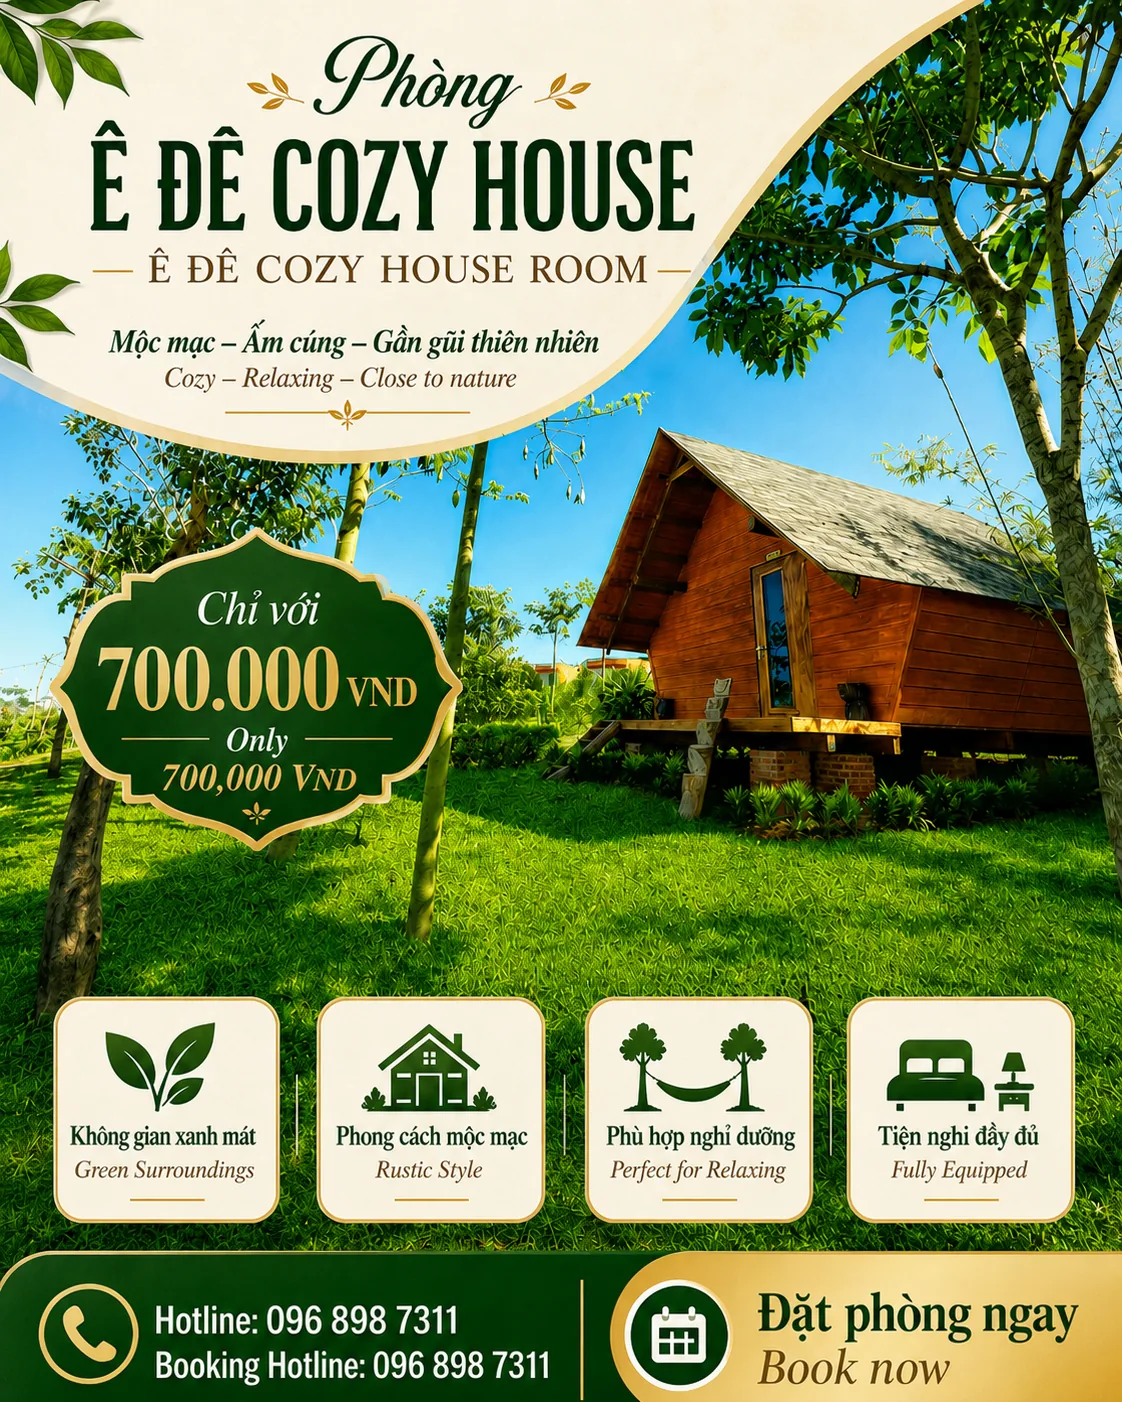
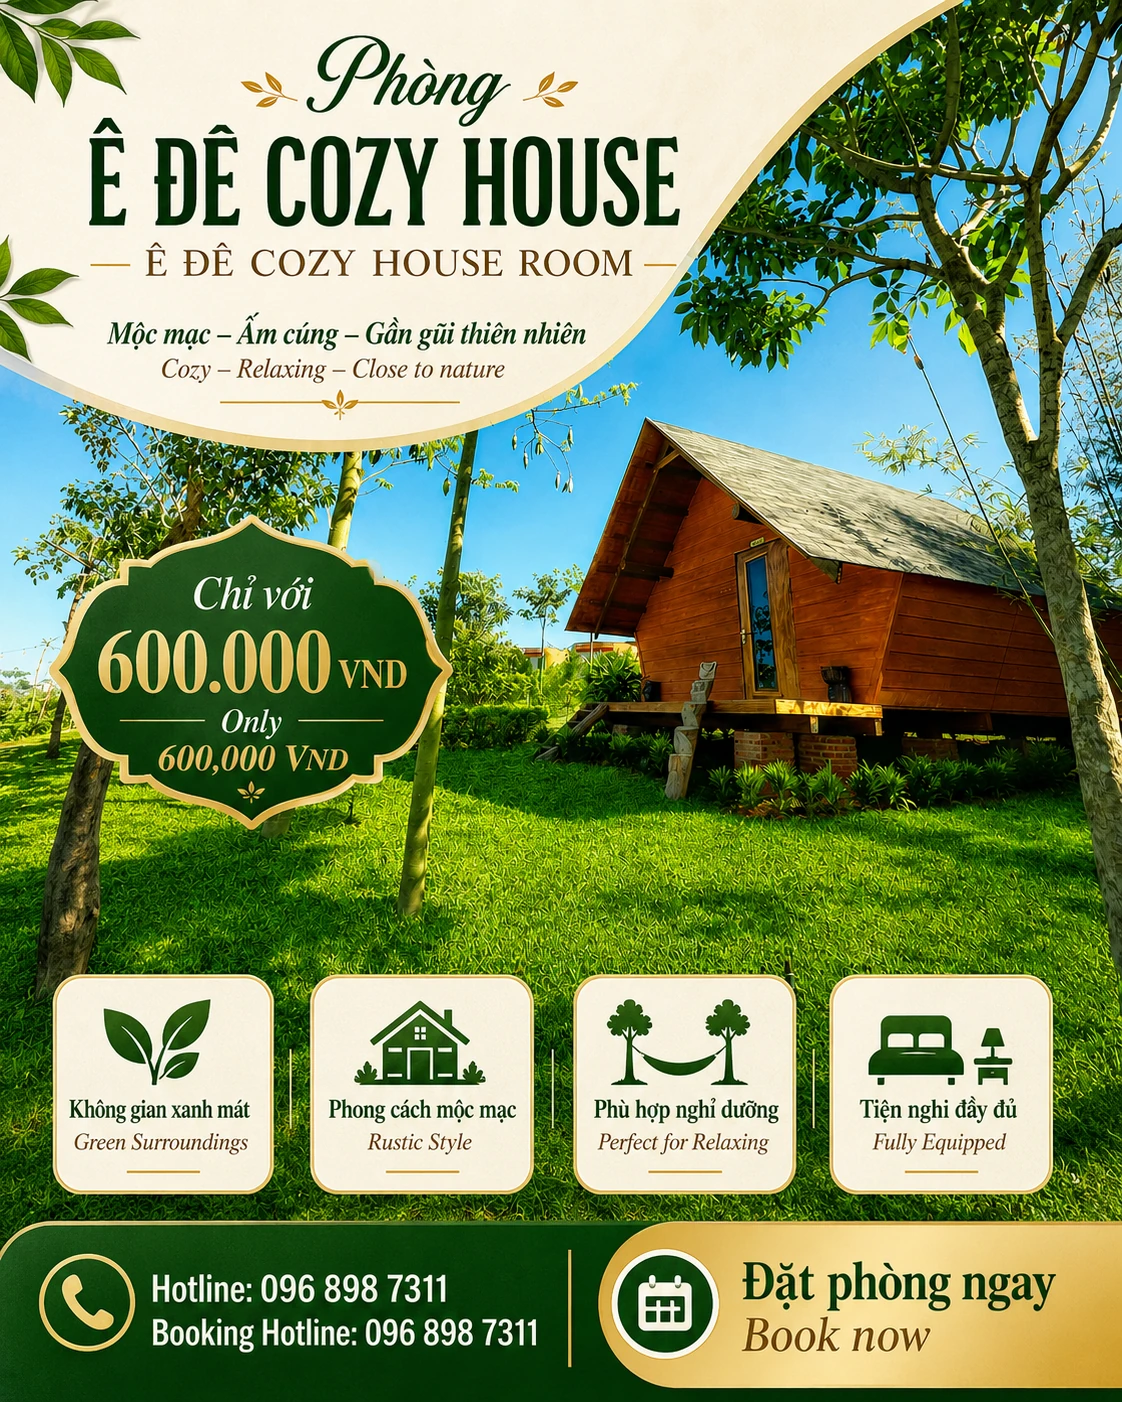
fix: update Ê Đê Cozy room price to 600k/đêm and refresh room image
- lib/roomTypes.js: ede_cozy priceVnd 700000 -> 600000 (source of truth)
- index.html, bang-gia/index.html: reflect new price across booking
  select, room card price tag, and FAQ chatbot answer
- test/roomTypes.test.js: update expected price to match
- images/room-ede-cozy.webp: replace with the image the user provided
- images/room-ede-cozy.jpg: restore (was deleted in the working tree
  unrelated to this change; its removal 404'd the homepage's <img>
  fallback, caught by tests/seo/links.spec.js)

diff --git a/index.html b/index.html
@@ -2681,7 +2681,7 @@
           <option value="">-- Chọn loại phòng --</option>
           <option value="triangle">Triangle House — 300.000đ/đêm</option>
           <option value="circle">Circle House — 600.000đ/đêm</option>
-          <option value="ede_cozy">Ê Đê Cozy House — 700.000đ/đêm</option>
+          <option value="ede_cozy">Ê Đê Cozy House — 600.000đ/đêm</option>
           <option value="vip">VIP House — 900.000đ/đêm</option>
           <option value="bungalow">Bungalow Gia Đình — 700.000đ/đêm</option>
           <option value="dormitory">Phòng Tập Thể — 1.200.000đ/đêm</option>
@@ -2813,7 +2813,7 @@
               <img src="./images/room-ede-cozy.jpg" alt="Ê Đê Cozy House">
             </picture>
             <span class="room-badge">Ê Đê Cozy</span>
-            <span class="room-price-tag">700k/đêm</span>
+            <span class="room-price-tag">600k/đêm</span>
           </div>
           <div class="room-body">
             <div class="room-name-vi">Ê Đê Cozy House</div>
@@ -4166,7 +4166,7 @@
       const KB = [
         {
           keys: ['giá', 'bao nhiêu', 'phí', 'tiền', 'cost', 'price', 'rate'],
-          answer: '🏡 Giá phòng tại Hiền Lê Garden:\n• Triangle House: **300.000đ/đêm**\n• Circle House: **600.000đ/đêm**\n• Ê Đê Cozy: **700.000đ/đêm**\n• VIP House: **900.000đ/đêm**\n• Bungalow GĐ: **700.000đ/đêm**\n• Phòng tập thể: **1.200.000đ/đêm**\n\nGiá có thể thay đổi vào mùa lễ tết. Nhắn Zalo để được báo giá chính xác nhất! 😊'
+          answer: '🏡 Giá phòng tại Hiền Lê Garden:\n• Triangle House: **300.000đ/đêm**\n• Circle House: **600.000đ/đêm**\n• Ê Đê Cozy: **600.000đ/đêm**\n• VIP House: **900.000đ/đêm**\n• Bungalow GĐ: **700.000đ/đêm**\n• Phòng tập thể: **1.200.000đ/đêm**\n\nGiá có thể thay đổi vào mùa lễ tết. Nhắn Zalo để được báo giá chính xác nhất! 😊'
         },
         {
           keys: ['bbq', 'nướng', 'lửa trại', 'campfire', 'tiệc'],

diff --git a/bang-gia/index.html b/bang-gia/index.html
@@ -173,7 +173,7 @@
         <tbody>
           <tr><td>Triangle House (Tiêu Chuẩn)</td><td><span class="price">300.000 đ</span></td><td class="capacity">2–3 người</td><td class="note">View vườn, giường đôi</td></tr>
           <tr><td>Circle House — Superior</td><td><span class="price">600.000 đ</span></td><td class="capacity">2–4 người</td><td class="note">View hồ, tiện nghi cao cấp hơn</td></tr>
-          <tr><td>E Đê Cozy — Deluxe</td><td><span class="price">700.000 đ</span></td><td class="capacity">2–4 người</td><td class="note">Bao gồm bữa sáng</td></tr>
+          <tr><td>E Đê Cozy — Deluxe</td><td><span class="price">600.000 đ</span></td><td class="capacity">2–4 người</td><td class="note">Bao gồm bữa sáng</td></tr>
           <tr><td>VIP House — Premium Garden View</td><td><span class="price">900.000 đ</span></td><td class="capacity">3–5 người</td><td class="note">Sân hiên riêng, view tốt nhất</td></tr>
           <tr><td>Bungalow Gia Đình</td><td><span class="price">700.000 đ</span></td><td class="capacity">4–6 người</td><td class="note">Phòng rộng, full amenities</td></tr>
           <tr><td>Phòng Tập Thể</td><td><span class="price">1.200.000 đ</span></td><td class="capacity">4–8 người</td><td class="note">Giá trọn phòng theo đêm, giường tầng</td></tr>

diff --git a/test/roomTypes.test.js b/test/roomTypes.test.js
@@ -13,7 +13,7 @@ describe('ROOM_TYPES', () => {
   it('matches the prices already published on bang-gia/index.html', () => {
     expect(ROOM_TYPES.triangle).toEqual({ label: 'Triangle House', priceVnd: 300000 });
     expect(ROOM_TYPES.circle).toEqual({ label: 'Circle House', priceVnd: 600000 });
-    expect(ROOM_TYPES.ede_cozy).toEqual({ label: 'Ê Đê Cozy House', priceVnd: 700000 });
+    expect(ROOM_TYPES.ede_cozy).toEqual({ label: 'Ê Đê Cozy House', priceVnd: 600000 });
     expect(ROOM_TYPES.vip).toEqual({ label: 'VIP House', priceVnd: 900000 });
     expect(ROOM_TYPES.bungalow).toEqual({ label: 'Bungalow Gia Đình', priceVnd: 700000 });
     expect(ROOM_TYPES.dormitory).toEqual({ label: 'Phòng Tập Thể', priceVnd: 1200000 });

diff --git a/lib/roomTypes.js b/lib/roomTypes.js
@@ -1,7 +1,7 @@
 export const ROOM_TYPES = {
   triangle: { label: 'Triangle House', priceVnd: 300000 },
   circle: { label: 'Circle House', priceVnd: 600000 },
-  ede_cozy: { label: 'Ê Đê Cozy House', priceVnd: 700000 },
+  ede_cozy: { label: 'Ê Đê Cozy House', priceVnd: 600000 },
   vip: { label: 'VIP House', priceVnd: 900000 },
   bungalow: { label: 'Bungalow Gia Đình', priceVnd: 700000 },
   dormitory: { label: 'Phòng Tập Thể', priceVnd: 1200000 },
